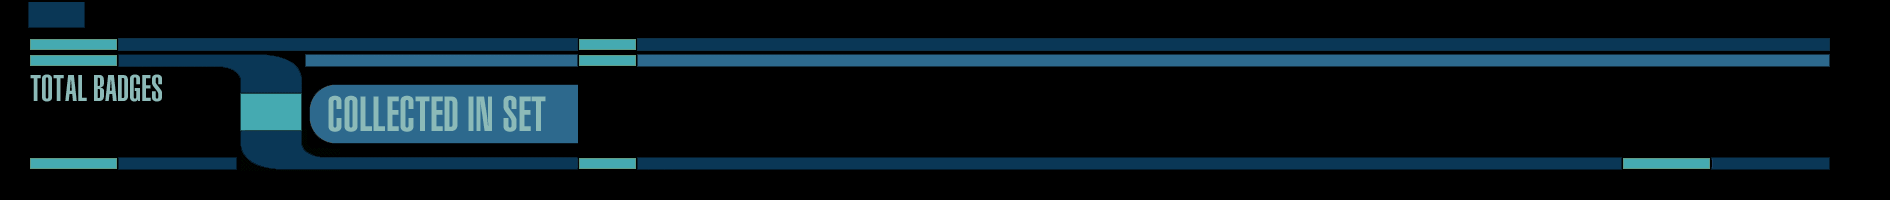
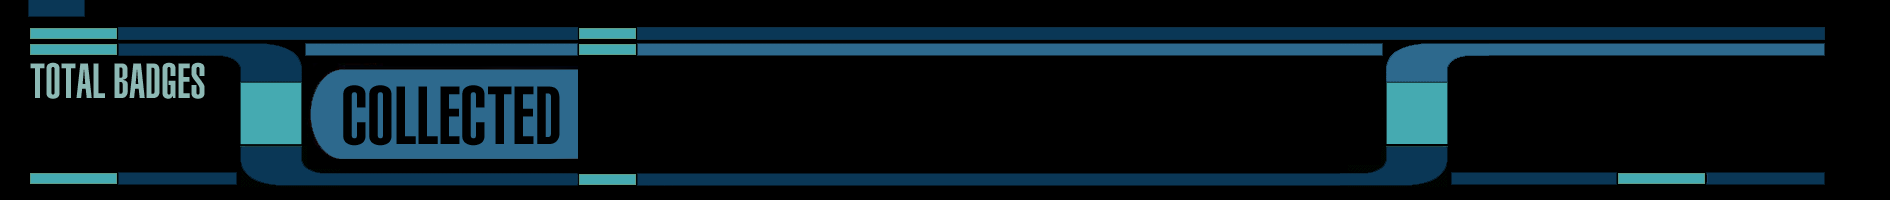
improvements, use threading when generating the image

diff --git a/commands/badge_sets.py b/commands/badge_sets.py
@@ -1,8 +1,7 @@
+import functools
 import math
 import textwrap
 import time
-
-from random import randint
 
 from common import *
 
@@ -30,7 +29,6 @@ async def autocomplete_selections(ctx:discord.AutocompleteContext):
 
   return [result for result in selections if ctx.value.lower() in result.lower()]
 
-
 # _________                                           .___
 # \_   ___ \  ____   _____   _____ _____    ____    __| _/
 # /    \  \/ /  _ \ /     \ /     \\__  \  /    \  / __ |
@@ -39,7 +37,7 @@ async def autocomplete_selections(ctx:discord.AutocompleteContext):
 #         \/             \/      \/     \/     \/      \/
 @bot.slash_command(
   name="badge_sets",
-  description="Show off sets of your badges!"
+  description="Show off sets of your badges! Please be mindful of posting very large sets publicly."
 )
 @option(
   name="public",
@@ -142,25 +140,44 @@ async def badge_sets(ctx:discord.ApplicationContext, public:str, category:str, s
 
   category_title = category.replace("_", " ").title()
 
-  # set_image = generate_badge_set_showcase_for_user(ctx.author, set, selection, category_title)
-
+  # Set up text values for paginated pages
   title = f"{ctx.author.display_name.encode('ascii', errors='ignore').decode().strip()}'s Badge Set: {category_title} - {selection}"
   collected = f"{len([b for b in all_badges if b['in_user_collection']])} OF {len(all_badges)}"
   filename_prefix = f"badge_set_{ctx.author.id}_{selection.lower().replace(' ', '-').replace('/', '-')}-page-"
 
-  set_images = generate_badge_set_images(ctx.author, all_badges, title, collected, filename_prefix)
+  set_images = await generate_badge_set_images(ctx.author, all_badges, title, collected, filename_prefix)
 
-  await ctx.followup.send(
-    embed=discord.Embed(
-      title=f"Badge Set: **{category_title}** - **{selection}**",
-      description=f"{ctx.author.mention} has collected {len(user_set_badges)} of {len(all_set_badges)}!",
-      color=discord.Color(0x2D698D)
-    ),
-    files=set_images,
-    ephemeral=not public
+  embed = discord.Embed(
+    title=f"Badge Set: **{category_title}** - **{selection}**",
+    description=f"{ctx.author.mention} has collected {len(user_set_badges)} of {len(all_set_badges)}!",
+    color=discord.Color(0x2D698D)
   )
 
-def generate_badge_set_images(user:discord.User, all_badges, title, collected, filename_prefix):
+  # If we're doing a public display, use the images directly
+  # Otherwise private displays can use the paginator
+  if not public:
+    set_pages = [
+      pages.Page(files=[image], embeds=[embed])
+      for image in set_images
+    ]
+    paginator = pages.Paginator(
+        pages=set_pages,
+        show_disabled=True,
+        show_indicator=True,
+        loop_pages=True
+    )
+    await paginator.respond(ctx.interaction, ephemeral=True)
+  else:
+    # We can only attach up to 10 files per message, so if it's public send them in chunks
+    file_chunks = [set_images[i:i + 10] for i in range(0, len(set_images), 10)]
+    for chunk_index, chunk in enumerate(file_chunks):
+      # Only post the embed on the last chunk
+      if chunk_index + 1 == len(file_chunks):
+        await ctx.followup.send(embed=embed, files=chunk, ephemeral=not public)
+      else:
+        await ctx.followup.send(files=chunk, ephemeral=not public)
+
+async def generate_badge_set_images(user:discord.User, all_badges, title, collected, filename_prefix):
   user_display_name = user.display_name
   total_user_badges = db_get_badge_count_for_user(user.id)
 
@@ -168,7 +185,7 @@ def generate_badge_set_images(user:discord.User, all_badges, title, collected, f
   all_pages = [all_badges[i:i + max_per_image] for i in range(0, len(all_badges), max_per_image)]
   total_pages = len(all_pages)
   badge_set_images = [
-    generate_badge_set_showcase_for_user(
+    await generate_badge_set_showcase_for_user(
       user_display_name,
       page,
       page_number + 1, # Account for zero index
@@ -188,6 +205,15 @@ def generate_badge_set_images(user:discord.User, all_badges, title, collected, f
 # |   |  Y Y  \/ __ \_/ /_/  >  ___/
 # |___|__|_|  (____  /\___  / \___  >
 #           \/     \//_____/      \/
+def to_thread(func):
+  @functools.wraps(func)
+  async def wrapper(*args, **kwargs):
+    loop = asyncio.get_event_loop()
+    wrapped = functools.partial(func, *args, **kwargs)
+    return await loop.run_in_executor(None, wrapped)
+  return wrapper
+
+@to_thread
 def generate_badge_set_showcase_for_user(user_display_name, page, page_number, total_pages, total_user_badges, title, collected, filename_prefix):
 
   text_wrapper = textwrap.TextWrapper(width=22)
@@ -212,8 +238,13 @@ def generate_badge_set_showcase_for_user(user_display_name, page, page_number, t
   base_row_height = 290
   base_footer_height = 200
 
-  # number_of_rows = math.ceil((len(page) / badges_per_row)) - 1
-  number_of_rows = 4 # NOTE: We want these to be static now?
+
+  # If we're generating more than one page we want the rows to simply expand to what's necessary
+  # Otherwise if there's multiple pages we want to have all of them be consistent
+  if page_number == 1 and total_pages == 1:
+    number_of_rows = math.ceil((len(page) / badges_per_row)) - 1
+  else:
+    number_of_rows = 4
 
   base_height = base_header_height + (base_row_height * number_of_rows) + base_footer_height
   # base_height = math.ceil((len(badge_set) / badges_per_row)) * (badge_slot_size + badge_margin)

diff --git a/commands/badges.py b/commands/badges.py
@@ -41,10 +41,10 @@ async def badges(ctx:discord.ApplicationContext, public:str):
 
 # slash command to get common badge stats
 @bot.slash_command(
-  name="badge_stats",
+  name="badge_statistics",
   description="See the server-wide badge statistics"
 )
-async def badge_stats(ctx:discord.ApplicationContext):
+async def badge_statistics(ctx:discord.ApplicationContext):
   results = {}
   results = run_badge_stats_queries()
   top_collectors = [res for res in results["top_collectors"]]
@@ -170,7 +170,7 @@ def generate_badge_showcase_for_user(user:discord.User):
   title_font = ImageFont.truetype("fonts/tng_credits.ttf", 68)
   credits_font = ImageFont.truetype("fonts/tng_credits.ttf", 42)
   badge_font = ImageFont.truetype("fonts/context_bold.ttf", 28)
-  
+
   badge_size = 200
   badge_padding = 40
   badge_margin = 10
